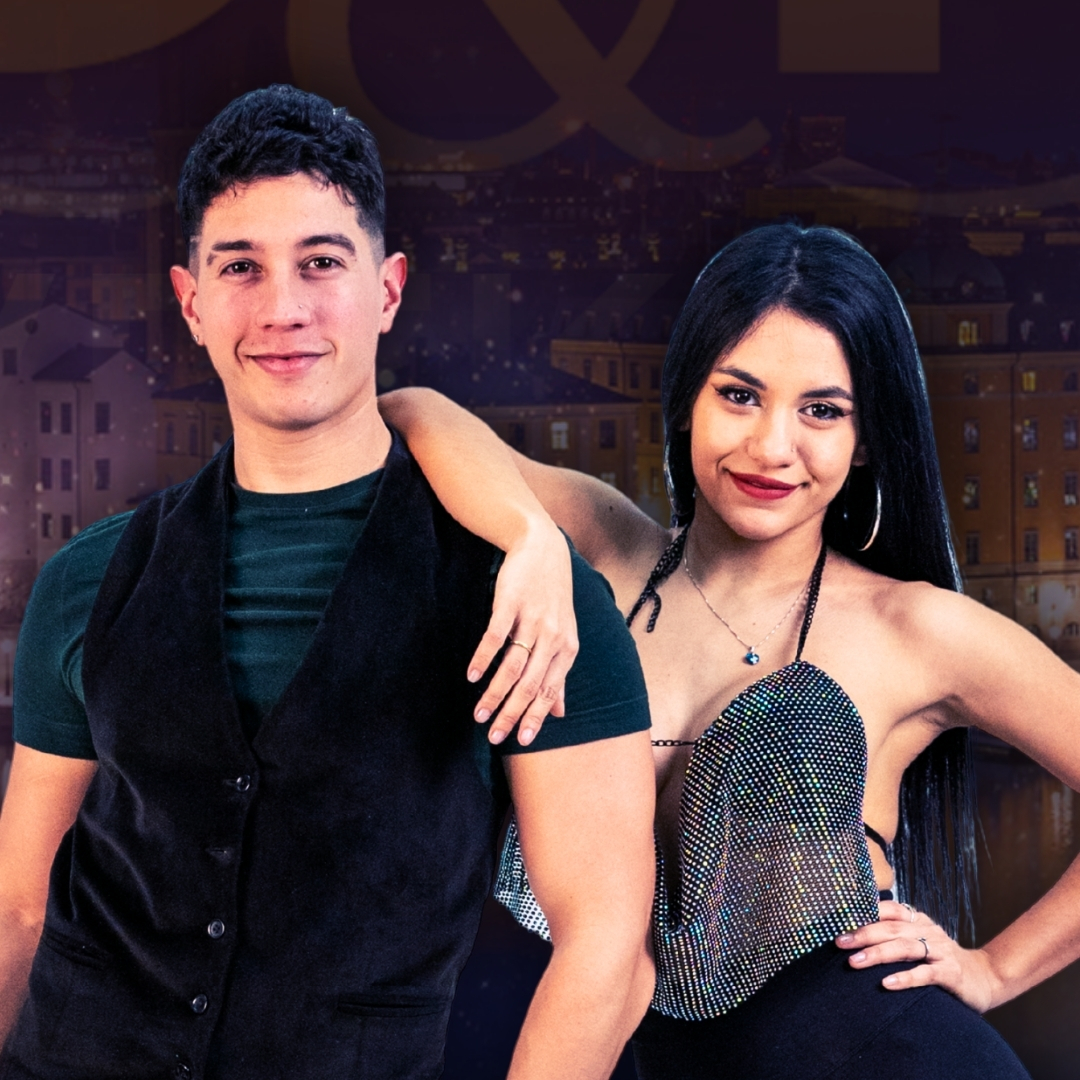
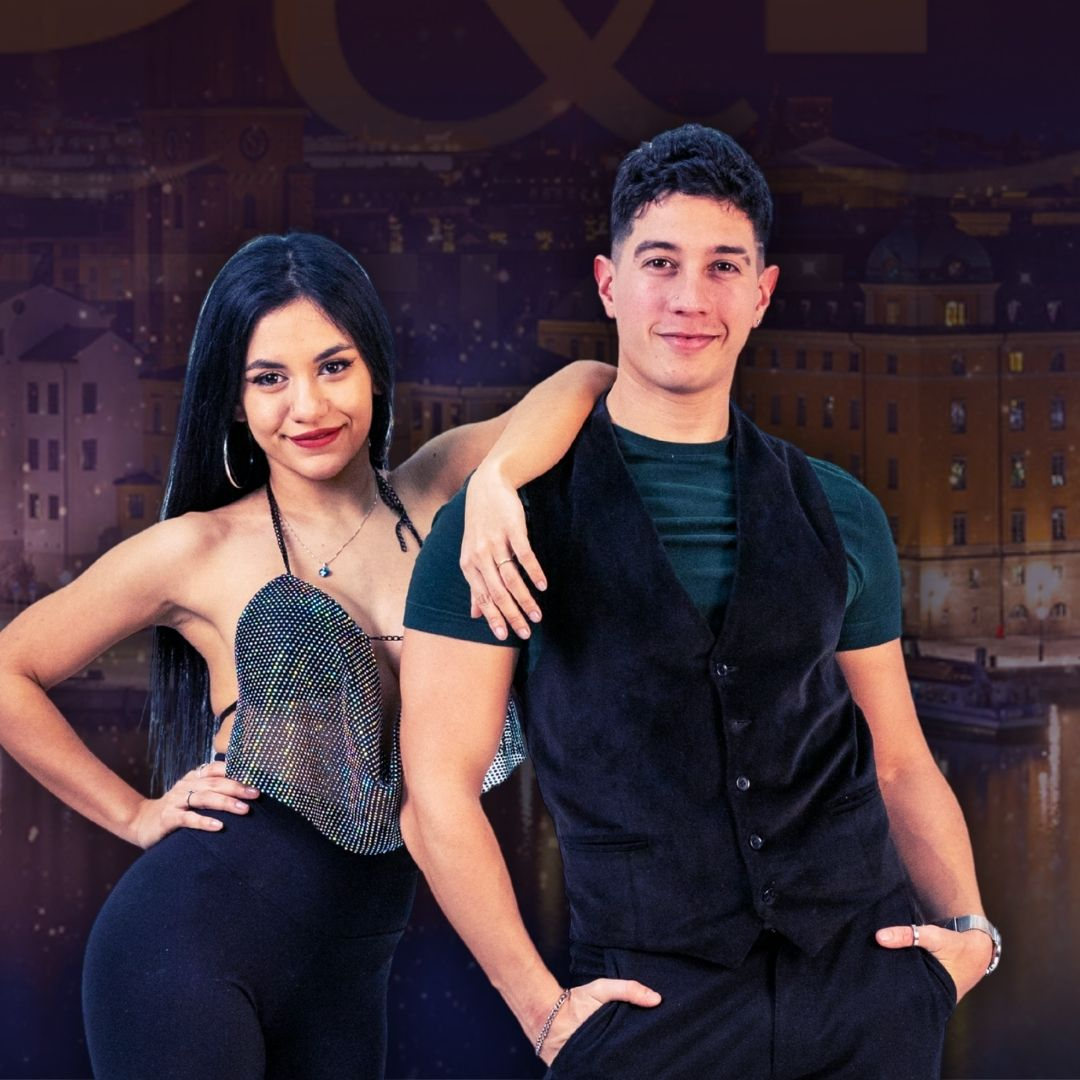
Updating artists and pricing

diff --git a/src/data/artists.ts b/src/data/artists.ts
@@ -1,8 +1,8 @@
 import type { ImageMetadata } from 'astro';
 
 /**
- * MIGRATION DATA — lineup scraped from the current Drupal site (2026-09-17).
- * Names, disciplines and origins are last-edition placeholders.
+ * 2027 lineup, supplied by the organisers (2026-09-24). Array order is
+ * display order.
  *
  * To update the lineup: edit this array and drop a square photo into
  * `src/assets/artists/` named after the `slug`. Nothing else needs changing —
@@ -37,47 +37,21 @@ export interface Artist {
 
 export const artists: Artist[] = [
   {
-    slug: 'lorena-and-marc',
-    name: 'Lorena & Marc',
-    discipline: 'Bachata',
-    city: 'Barcelona',
-    country: 'Spain',
-    role: 'teacher',
-    youtubeId: 'BKY-X1yy4zQ',
-    feature: true,
-  },
-  {
-    slug: 'kevin-and-geysa',
-    name: 'Kevin & Geysa',
-    discipline: 'Salsa Cubana',
-    city: 'Barcelona',
-    country: 'Spain / Cuba',
-    role: 'teacher',
-    youtubeId: '1B0-CWSriIE',
-    feature: true,
-    bio: [
-      'Geysa Martínez (Havana, Cuba). Since she was little she knew that her vocation was dance, beginning at nine years old in the world of entertainment, going through ballet, modern and Afro-contemporary dance, popular and traditional Cuban dances and different styles of dances and cultures that make her a dancer with many registers.',
-      'With professional training, graduated in 2009 at the Alejo Carpentier Havana Provincial School in the specialty of Classical Ballet and later in 2015 with the title of Dancer of Musical Shows at the Cuban Institute of Music and Ministry of Culture of Havana.',
-      'She has worked in important Cuban companies such as Havana Queens Company, Teatro America Ballet, Rakatan Ballet and Cuban Television Ballet, and has been part of national and international projects and festivals in Turkey, Germany, Spain, Hungary, Singapore, Switzerland and France.',
-      'She currently resides in Barcelona where she opened her own dance school together with her partner Kevin Cano, called HaBarna Dance Studio.',
-    ],
-  },
-  {
     slug: 'danel-and-ariana',
     name: 'Danel & Ariana',
     discipline: 'Bachata',
     city: 'Barcelona',
     country: 'Spain',
     role: 'teacher',
+    feature: true,
   },
   {
-    slug: 'mario-and-nia',
-    name: 'Mario & Nia',
-    discipline: 'Bachata',
-    city: 'Barcelona',
-    country: 'Spain',
+    slug: 'ismael-and-irene',
+    name: 'Ismael & Irene',
+    discipline: 'Salsa Cubana',
+    country: 'Cuba / Spain',
     role: 'teacher',
-    youtubeId: 'pLxf1HC_dEU',
+    feature: true,
   },
   {
     slug: 'alberto-and-lisondra',
@@ -87,8 +61,24 @@ export const artists: Artist[] = [
     country: 'Sweden',
     role: 'teacher',
     youtubeId: 'DgK9bKg9tSk',
+    feature: true,
     bio: [
       'Alberto and Lisondra are a Bachata couple based in Stockholm, teaching Bachata fusion with a focus on clear leading and responsive following.',
+    ],
+  },
+  {
+    slug: 'arturo-rojas',
+    name: 'Arturo Rojas',
+    discipline: 'Salsa Cubana',
+    country: 'Peru / Sweden',
+    role: 'teacher',
+    descriptor: 'Rueda de Casino',
+    youtubeId: '1Hn5dGGEF4Q',
+    bio: [
+      'Arturo Rojas Cortegana — professional dancer, teacher, pedagogue, choreographer and international judge. Lima, Peru / Stockholm, Sweden.',
+      'Specialised in Rueda de Casino and Cuban dances, with 30 years of experience in teaching, dance and creation.',
+      'Arturo is the founder and creator of "Rueda en el Parque" (2008–2012, Lima, Peru). There are now more than 40 Rueda groups in different districts and parks throughout Lima.',
+      'Director of "Perú Latin Dance", the first two-time National Champions of Rueda de Casino in Peru, 2010–2011. He owns the "Salsa King Sweden" school in Stockholm, which he founded in 2017.',
     ],
   },
   {
@@ -100,59 +90,15 @@ export const artists: Artist[] = [
     role: 'teacher',
   },
   {
-    slug: 'rodrigo-and-lana',
-    name: 'Rodrigo & Lana',
-    discipline: 'Bachata',
-    city: 'Stockholm',
-    country: 'Sweden',
-    role: 'teacher',
-  },
-  {
-    slug: 'arturo-rojas',
-    name: 'Arturo Rojas',
+    slug: 'diasmani',
+    name: 'Diasmani',
     discipline: 'Salsa Cubana',
-    city: 'Stockholm',
-    country: 'Sweden',
+    country: 'Cuba',
     role: 'teacher',
-    descriptor: 'Rueda de Casino',
-    youtubeId: '1Hn5dGGEF4Q',
-    feature: true,
-    bio: [
-      'Arturo Rojas Cortegana — professional dancer, teacher, pedagogue, choreographer and international judge. Lima, Peru / Stockholm, Sweden.',
-      'Specialised in Rueda de Casino and Cuban dances, with 30 years of experience in teaching, dance and creation.',
-      'Arturo is the founder and creator of "Rueda en el Parque" (2008–2012, Lima, Peru). There are now more than 40 Rueda groups in different districts and parks throughout Lima.',
-      'Director of "Perú Latin Dance", the first two-time National Champions of Rueda de Casino in Peru, 2010–2011. He owns the "Salsa King Sweden" school in Stockholm, which he founded in 2017.',
-    ],
   },
   {
-    slug: 'reynaldo-salazar',
-    name: 'Reynaldo Salazar',
-    discipline: 'Salsa Cubana',
-    country: 'Germany',
-    role: 'teacher',
-    descriptor: 'Timba & Rueda',
-  },
-  {
-    slug: 'saul-perez-valdes',
-    name: 'Saul Perez Valdes',
-    discipline: 'Salsa Cubana',
-    city: 'Stockholm',
-    country: 'Sweden',
-    role: 'teacher',
-    descriptor: 'Afro Cuban & Son',
-  },
-  {
-    slug: 'juliette-anturi',
-    name: 'Juliette Anturi',
-    discipline: 'Salsa Cubana',
-    city: 'Stockholm',
-    country: 'Sweden',
-    role: 'teacher',
-    youtubeId: 'SPhP7p5_JOk',
-  },
-  {
-    slug: 'linda-bertling',
-    name: 'Linda Bertling',
+    slug: 'juliette-and-linda',
+    name: 'Juliette & Linda',
     discipline: 'Salsa Cubana',
     city: 'Stockholm',
     country: 'Sweden',

diff --git a/src/data/passes.ts b/src/data/passes.ts
@@ -1,8 +1,9 @@
 import { event } from './event';
 
 /**
- * MIGRATION DATA — prices copied from /registration-and-prices on the current
- * site (2026-09-17). These are NOT confirmed next-edition prices.
+ * The Full Pass uses the confirmed 2027 price tiers (supplied 2026-09-24). The
+ * other prices were copied from /registration-and-prices on the old site
+ * (2026-09-17) and are NOT confirmed next-edition prices.
  *
  * `priceConfirmed` gates the schema.org `offers` block: while it is false the
  * structured data ships without prices, so we never publish stale money to
@@ -12,10 +13,22 @@ import { event } from './event';
 export const priceConfirmed: boolean = false;
 export const currency = 'SEK';
 
-export interface Pass {
+/**
+ * One step of a price that rises over time. Tiers are listed in order, and the
+ * one that applies is the first whose `lastDay` has not passed yet.
+ */
+export interface PriceTier {
+  price: number;
+  /**
+   * Last day this price applies, inclusive, as `YYYY-MM-DD` in Stockholm time.
+   * Leave it off the final tier.
+   */
+  lastDay?: string;
+}
+
+interface PassBase {
   id: string;
   name: string;
-  price: number;
   /** One-line summary shown under the price. */
   summary: string;
   /** Bullet list of what the pass covers. */
@@ -26,12 +39,19 @@ export interface Pass {
   bookingUrl?: string;
 }
 
+/** A pass has either one fixed `price` or a list of dated `tiers`. */
+export type Pass = PassBase & ({ price: number; tiers?: never } | { tiers: PriceTier[]; price?: never });
+
 /** The two headline passes — these get the large cards. */
 export const mainPasses: Pass[] = [
   {
     id: 'full-pass',
     name: 'Full Pass',
-    price: 1500,
+    tiers: [
+      { price: 1000, lastDay: '2026-11-30' },
+      { price: 1400, lastDay: '2027-01-31' },
+      { price: 1600 },
+    ],
     summary: 'Workshops & parties',
     includes: [
       'All workshops, Friday to Sunday',
@@ -85,4 +105,37 @@ export function bookingUrlFor(pass: Pass): string {
 
 export function formatPrice(price: number): string {
   return `${price.toLocaleString('sv-SE')} ${currency}`;
+}
+
+/** Today in Stockholm as `YYYY-MM-DD`, the same format `lastDay` uses. */
+export function stockholmToday(now = new Date()): string {
+  return now.toLocaleDateString('sv-SE', { timeZone: 'Europe/Stockholm' });
+}
+
+export function tiersFor(pass: Pass): PriceTier[] {
+  return pass.tiers ?? [{ price: pass.price }];
+}
+
+/** The tier in force on `day`, and the one after it if there is one. */
+export function tierOn(tiers: PriceTier[], day = stockholmToday()) {
+  // ISO dates compare correctly as strings, so no timezone maths is needed.
+  const i = tiers.findIndex((t) => !t.lastDay || day <= t.lastDay);
+  const at = i === -1 ? tiers.length - 1 : i;
+  return { current: tiers[at], next: tiers[at + 1] as PriceTier | undefined };
+}
+
+export function priceOn(pass: Pass, day = stockholmToday()): number {
+  return tierOn(tiersFor(pass), day).current.price;
+}
+
+/** "Until 30 November, then 1 400 SEK" — or nothing once the final tier applies. */
+export function tierNote(tiers: PriceTier[], day = stockholmToday()): string | undefined {
+  const { current, next } = tierOn(tiers, day);
+  if (!current.lastDay || !next) return undefined;
+  const until = new Date(`${current.lastDay}T12:00:00Z`).toLocaleDateString('en-GB', {
+    day: 'numeric',
+    month: 'long',
+    timeZone: 'UTC',
+  });
+  return `Until ${until}, then ${formatPrice(next.price)}`;
 }

diff --git a/src/data/djs.ts b/src/data/djs.ts
@@ -2,9 +2,9 @@ import type { ImageMetadata } from 'astro';
 import type { Discipline } from './artists';
 
 /**
- * MIGRATION DATA — DJ lineup from the current Drupal site (2026-09-17).
- * The old site had a dedicated /djs route; here they are a section of the
- * home page instead. Drop photos into `src/assets/djs/` named after the slug.
+ * 2027 DJ lineup, supplied by the organisers (2026-09-24). Array order is
+ * display order. The old site had a dedicated /djs route; here they are a
+ * section of the home page instead. Drop photos into `src/assets/djs/` named after the slug.
  */
 
 export interface Dj {
@@ -12,7 +12,8 @@ export interface Dj {
   name: string;
   discipline: Discipline;
   city?: string;
-  country: string;
+  /** Not rendered in the DJ grid; kept where known. */
+  country?: string;
   bio?: string[];
   youtubeId?: string;
 }
@@ -29,9 +30,11 @@ export const djs: Dj[] = [
       'DJ Isra was born in Cuba and has been moving the Latin crowd in Sweden for over six years with his Cuban sound. With his sense for mixing classic Cuban salsa with timba and cubaton, he has played at several international festivals alongside artists such as Gente de Zona, Los Van Van, Los 4, Habana D’Primera and Maykel Blanco y su Salsa Mayor.',
     ],
   },
-  { slug: 'dj-happy-feet', name: 'DJ Happy Feet', discipline: 'Bachata', city: 'Stockholm', country: 'Sweden' },
-  { slug: 'dj-bachflow', name: 'DJ Bachflow', discipline: 'Bachata', city: 'Stockholm', country: 'Sweden' },
+  { slug: 'dj-poggy', name: 'DJ Poggy', discipline: 'Bachata' },
+  { slug: 'dj-dlux', name: 'DJ D’Lux', discipline: 'Bachata' },
+  { slug: 'dj-aura', name: 'DJ Aura', discipline: 'Bachata' },
   { slug: 'dj-neit', name: 'DJ Neit', discipline: 'Bachata', city: 'Stockholm', country: 'Sweden' },
+  { slug: 'dj-bachflow', name: 'DJ BachFlow', discipline: 'Bachata', city: 'Stockholm', country: 'Sweden' },
   { slug: 'dj-valenz', name: 'DJ Valenz', discipline: 'Bachata', city: 'Stockholm', country: 'Sweden' },
 ];
 

diff --git a/src/data/event.ts b/src/data/event.ts
@@ -58,8 +58,8 @@ export const event = {
     email: 'info@stockholmsalsadance.com',
   },
 
-  /** Tickster shop currently linked from the live site. Replace when reissued. */
-  bookingUrl: 'https://secure.tickster.com/kd54lz707huxke8',
+  /** 2027 registration on Coursely (supplied 2026-09-24). Every Book button links here. */
+  bookingUrl: 'https://app.coursely.se/register/6f1aex9s8q9oyc5c?lang=en',
 
   /**
    * Printable workshop grid. The organiser's 2026 PDF is NOT linked here — it

diff --git a/src/data/site.ts b/src/data/site.ts
@@ -18,7 +18,7 @@ import { schedule, workshopCount } from './schedule';
 /** Distinct countries across the teaching lineup and the DJs. */
 const countries = new Set(
   [...teachingArtists, ...djs]
-    .flatMap((p) => p.country.split('/'))
+    .flatMap((p) => (p.country ?? '').split('/'))
     .map((c) => c.trim())
     .filter(Boolean),
 );

diff --git a/ASSET-INVENTORY.md b/ASSET-INVENTORY.md
@@ -8,8 +8,8 @@ the repo as a **temporary placeholder**. Nothing hotlinks the old site.
 
 | Location | Contents | Why there |
 | --- | --- | --- |
-| `src/assets/artists/` | 13 artist photos | In `src/`, not `public/`, so Astro's image pipeline emits responsive WebP/AVIF at build time. This is what takes the 850 KB originals down to 10–60 KB. |
-| `src/assets/djs/` | 5 DJ photos | Same. |
+| `src/assets/artists/` | 8 artist photos | In `src/`, not `public/`, so Astro's image pipeline emits responsive WebP/AVIF at build time. This is what takes the 850 KB originals down to 10–60 KB. |
+| `src/assets/djs/` | 7 DJ photos | Same. |
 | `public/images/brand/` | Logo, star, OG card | Referenced by URL from `<meta>` tags and the header, so they must keep stable paths. |
 | `public/favicon.ico` | Favicon | From the old theme, unchanged. |
 | `reference/` | 2026 workshop grid (PDF + JPG) | Source for the transcribed schedule. **Not deployed** — it is stale and 10 MB. |
@@ -21,24 +21,25 @@ site renders. Source path: `/sites/default/files/<YYYY-MM>/<name>.jpg`.
 
 | Local file | Source filename on old site | Size |
 | --- | --- | --- |
-| `artists/lorena-and-marc.jpg` | `2025-10/Marc & Lorena.jpg` | 1080×1080 |
-| `artists/kevin-and-geysa.jpg` | `2025-10/Kevin  & Geysa .jpg` | 1080×1080 |
-| `artists/danel-and-ariana.jpg` | `2025-10/Adel & Ariana .jpg` | 1080×1080 |
-| `artists/mario-and-nia.jpg` | `2025-10/Mario & Nia.jpg` | 1080×1080 |
-| `artists/arturo-rojas.jpg` | `2025-10/Arturo .jpg` | 1080×1080 |
-| `artists/reynaldo-salazar.jpg` | `2025-10/Reynaldo.jpg` | 1080×1080 |
-| `artists/julia-and-ezequiel.jpg` | `2025-10/Julia & Ezequiel .jpg` | 1080×1080 |
-| `artists/alberto-and-lisondra.jpg` | `2025-10/Alberto  & Lisondra .jpg` | 1080×1080 |
-| `artists/saul-perez-valdes.jpg` | `2025-10/Saul.jpg` | 1080×1080 |
-| `artists/juliette-anturi.jpg` | `2025-11/Juliette.jpg` | 1080×1080 |
-| `artists/rodrigo-and-lana.jpg` | `2025-11/Rodrigo y Lana.jpg` | 1080×1080 |
-| `artists/linda-bertling.jpg` | `2025-11/Linda.jpg` | 1080×1080 |
-| `artists/videographer-josefin-romero.jpg` | `2026-02/JOSEFIN.jpg` | 1080×1080 |
-| `djs/dj-isra.jpg` | `2025-04/ISRA_0.jpg` | 1080×1080 |
-| `djs/dj-happy-feet.jpg` | `2026-02/DJ HAPPY FEET.jpg` | 1080×1080 |
-| `djs/dj-bachflow.jpg` | `2026-02/DJ BACH FLOW.jpg` | 1080×1080 |
-| `djs/dj-neit.jpg` | `2026-02/DJ NEIT.jpg` | 1080×1080 |
-| `djs/dj-valenz.jpg` | `2026-02/DJ VALENZ.jpg` | 1080×1080 |
+| `artists/danel-and-ariana.jpg` | 2027 lineup folder (`danel & Ariana.jpg`) | 1080×1080 |
+| `artists/ismael-and-irene.jpg` | 2027 lineup folder (`Ismael & Irene.jpg`) | 1080×1080 |
+| `artists/alberto-and-lisondra.jpg` | 2027 lineup folder (`Alberto & Lisondra.jpg`) | 1080×1080 |
+| `artists/arturo-rojas.jpg` | 2027 lineup folder (`Arturo Rojas.jpg`) | 1080×1080 |
+| `artists/julia-and-ezequiel.jpg` | 2027 lineup folder (`julia & ezequiel.jpg`) | 1080×1080 |
+| `artists/diasmani.jpg` | 2027 lineup folder (`Diasmani.jpg`) | 1080×1080 |
+| `artists/juliette-and-linda.jpg` | 2027 lineup folder (`Juliette & Linda.jpg`) | 1080×1080 |
+| `artists/videographer-josefin-romero.jpg` | Old site `2026-02/JOSEFIN.jpg` | 1080×1080 |
+| `djs/dj-isra.jpg` | 2027 DJ folder (`DJ ISRA.jpg`) | 1080×1080 |
+| `djs/dj-poggy.jpg` | 2027 DJ folder (`DJ POGGY.jpg`) | 1080×1080 |
+| `djs/dj-dlux.jpg` | 2027 DJ folder (`DJ DLUX.jpg`) | 1080×1080 |
+| `djs/dj-aura.jpg` | 2027 DJ folder (`DJ AURA.jpg`) | 1080×1080 |
+| `djs/dj-neit.jpg` | 2027 DJ folder (`DJ NEIT.jpg`) | 1080×1080 |
+| `djs/dj-bachflow.jpg` | 2027 DJ folder (`DJ BACH FLOW.jpg`) | 1080×1080 |
+| `djs/dj-valenz.jpg` | 2027 DJ folder (`DJ VALENZ.jpg`) | 1080×1080 |
+
+The lineup photos were supplied by the organisers on 24 Sep 2026
+(`B&C WEEKEND 2027 ARTISTER HEMSIDA` / `DJs HEMSIDA`) and replace the
+old-site originals. Only the videographer photo still comes from the old site.
 
 To swap an artist photo: drop a square JPG into `src/assets/artists/` named
 after the artist's `slug` in `src/data/artists.ts`. Nothing else to change.
